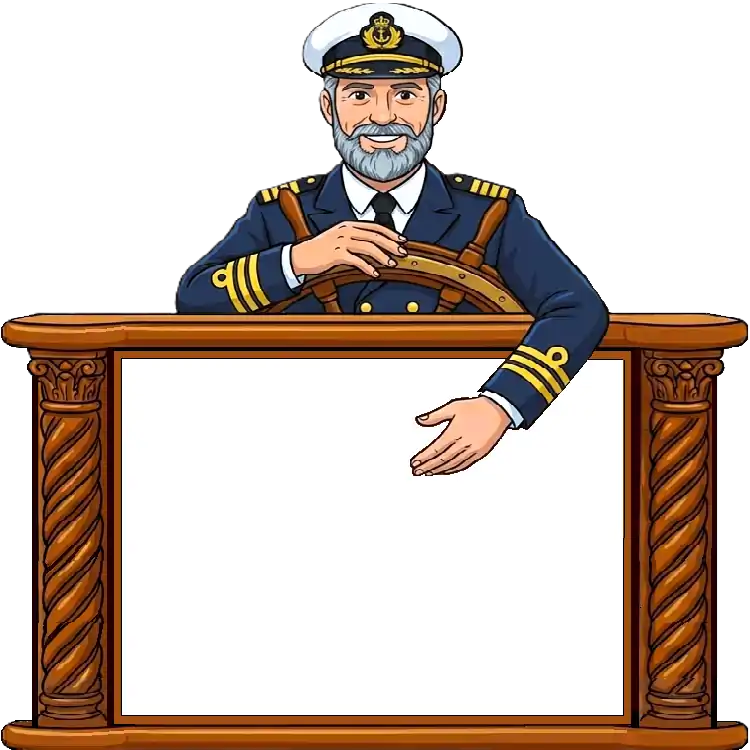
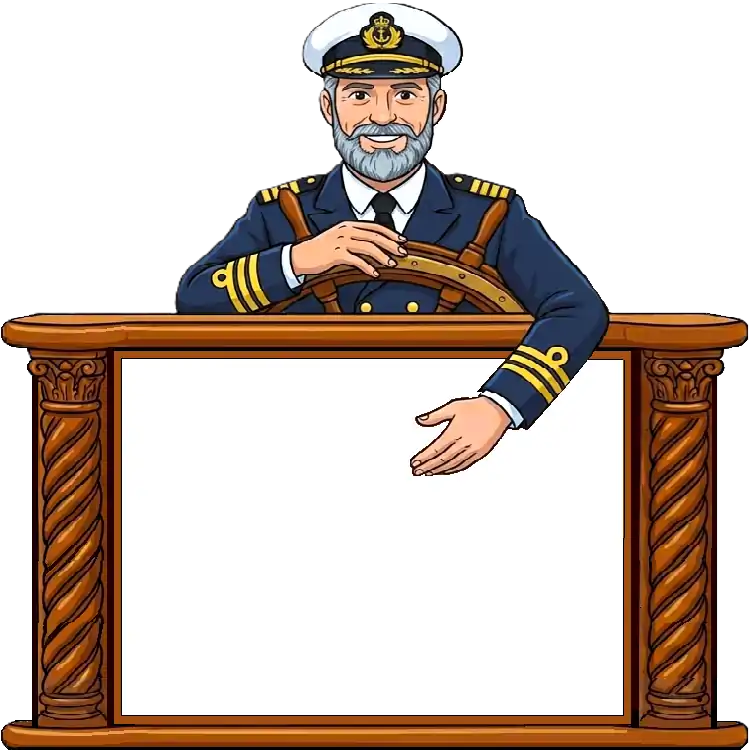
Add files via upload

Changed region(s): [[0.0, 0.9813, 0.9813, 1.0]]

diff --git a/index.html b/index.html
@@ -206,7 +206,7 @@
           <h4 style="color: red;">
             COME WITH US IN A<br>
             <span style="color: springgreen;">GREEN ESCAPADE!</span><br>
-            Our cruises include:<br>
+            OUR CRUISES INCLUDE<br>
             <span id="word" style="color: springgreen;">FRESH FISH MENU</span>
           </h4>
         </div>